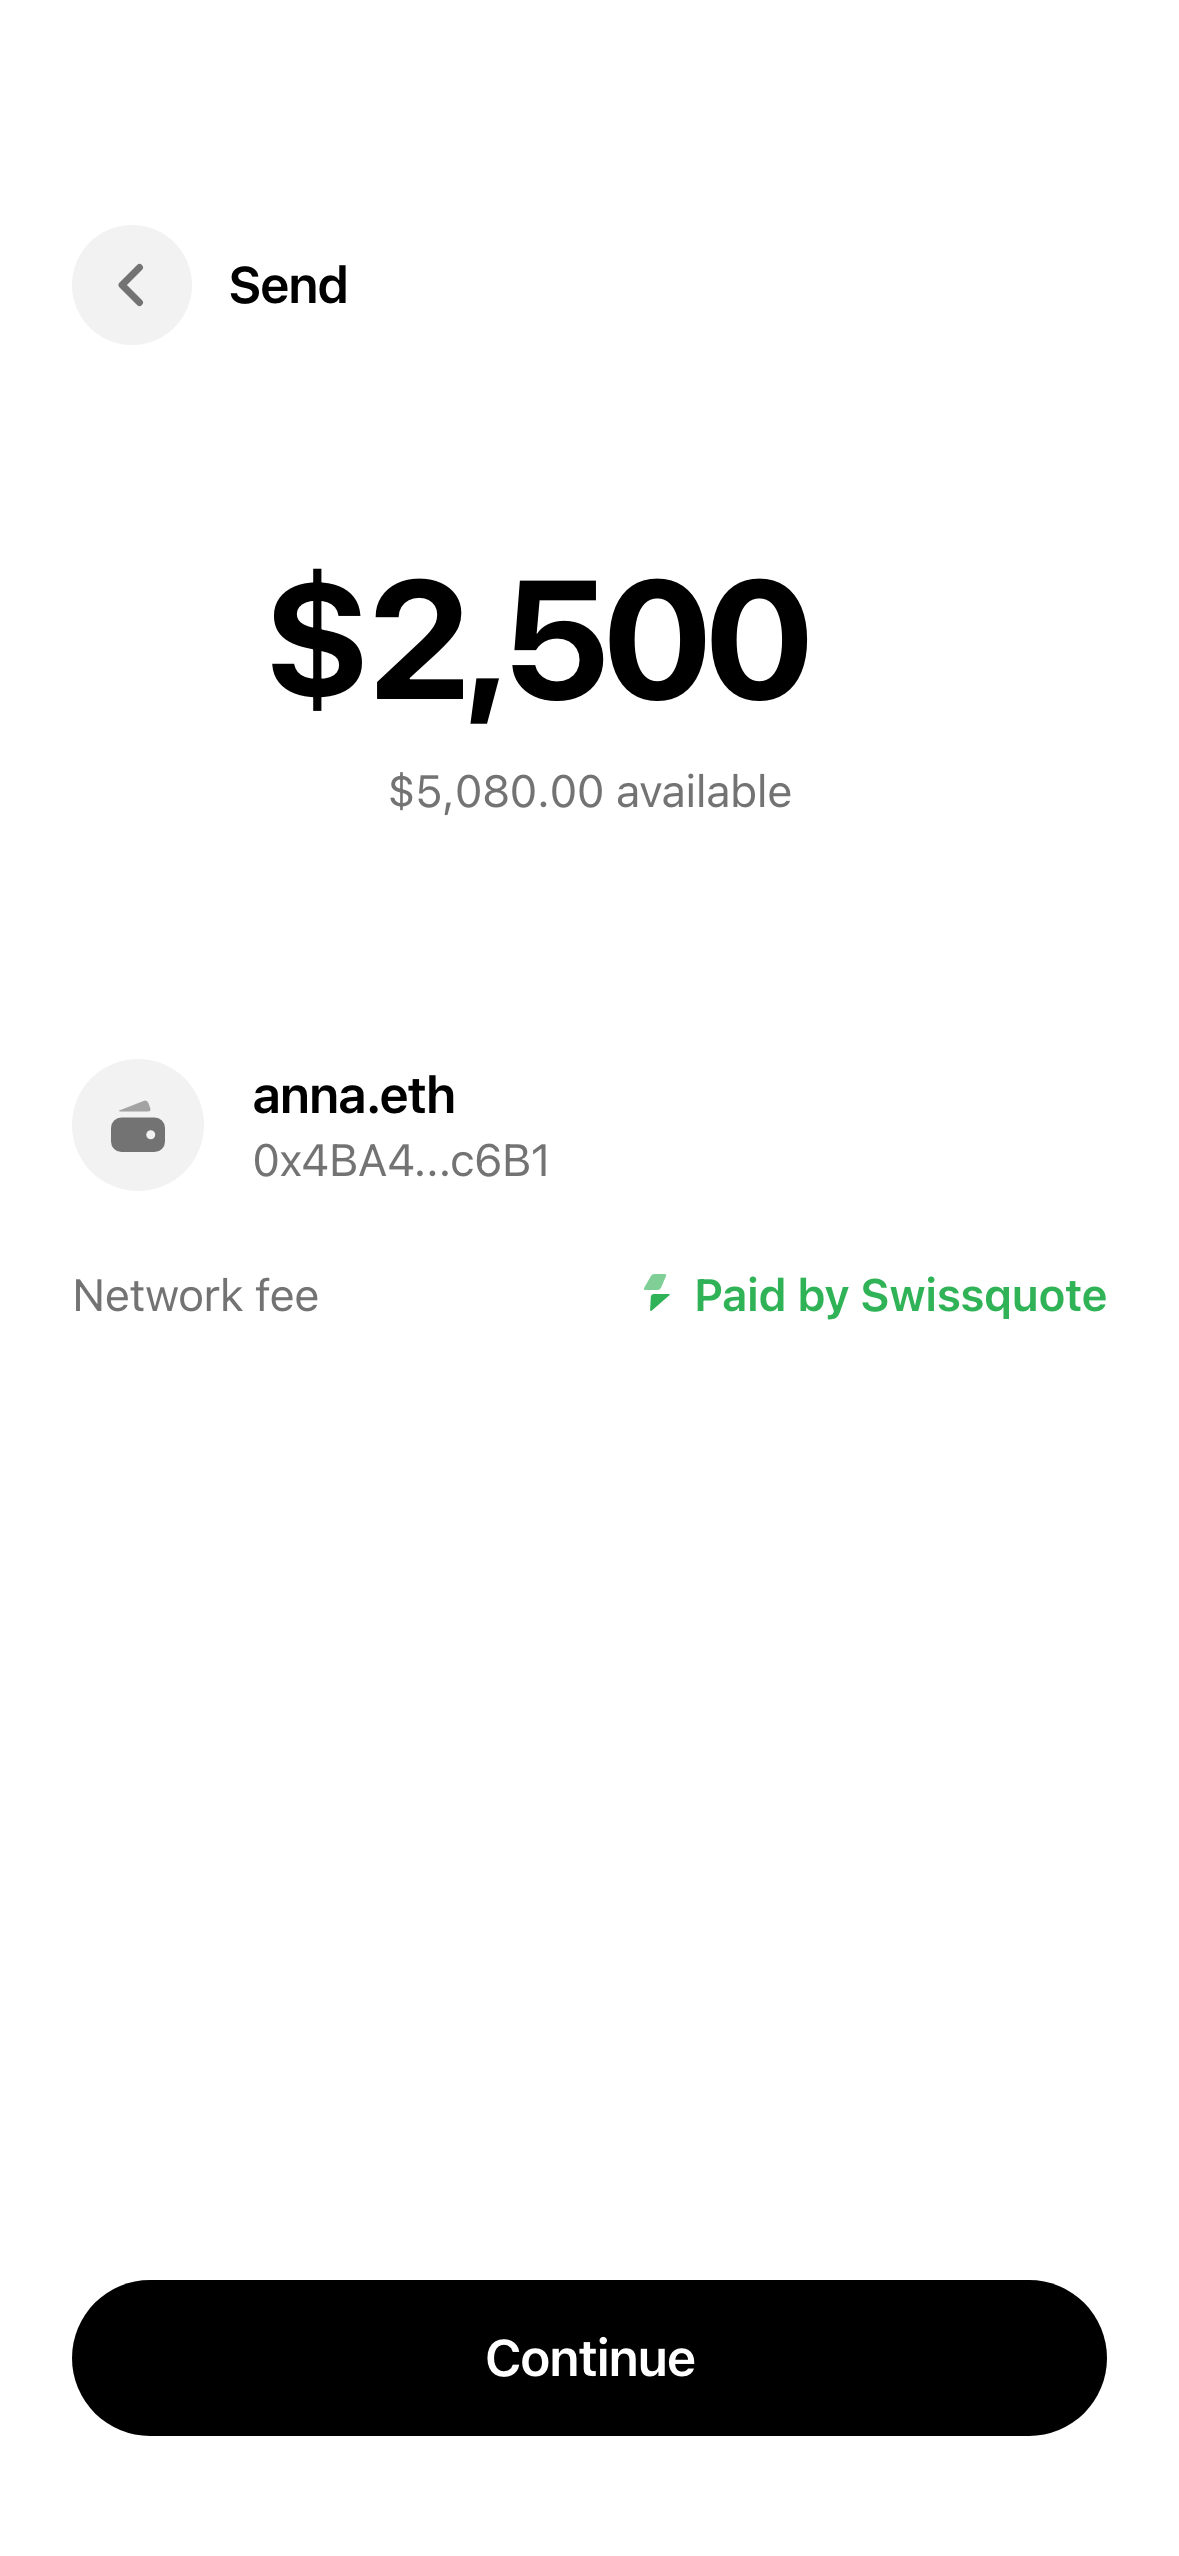
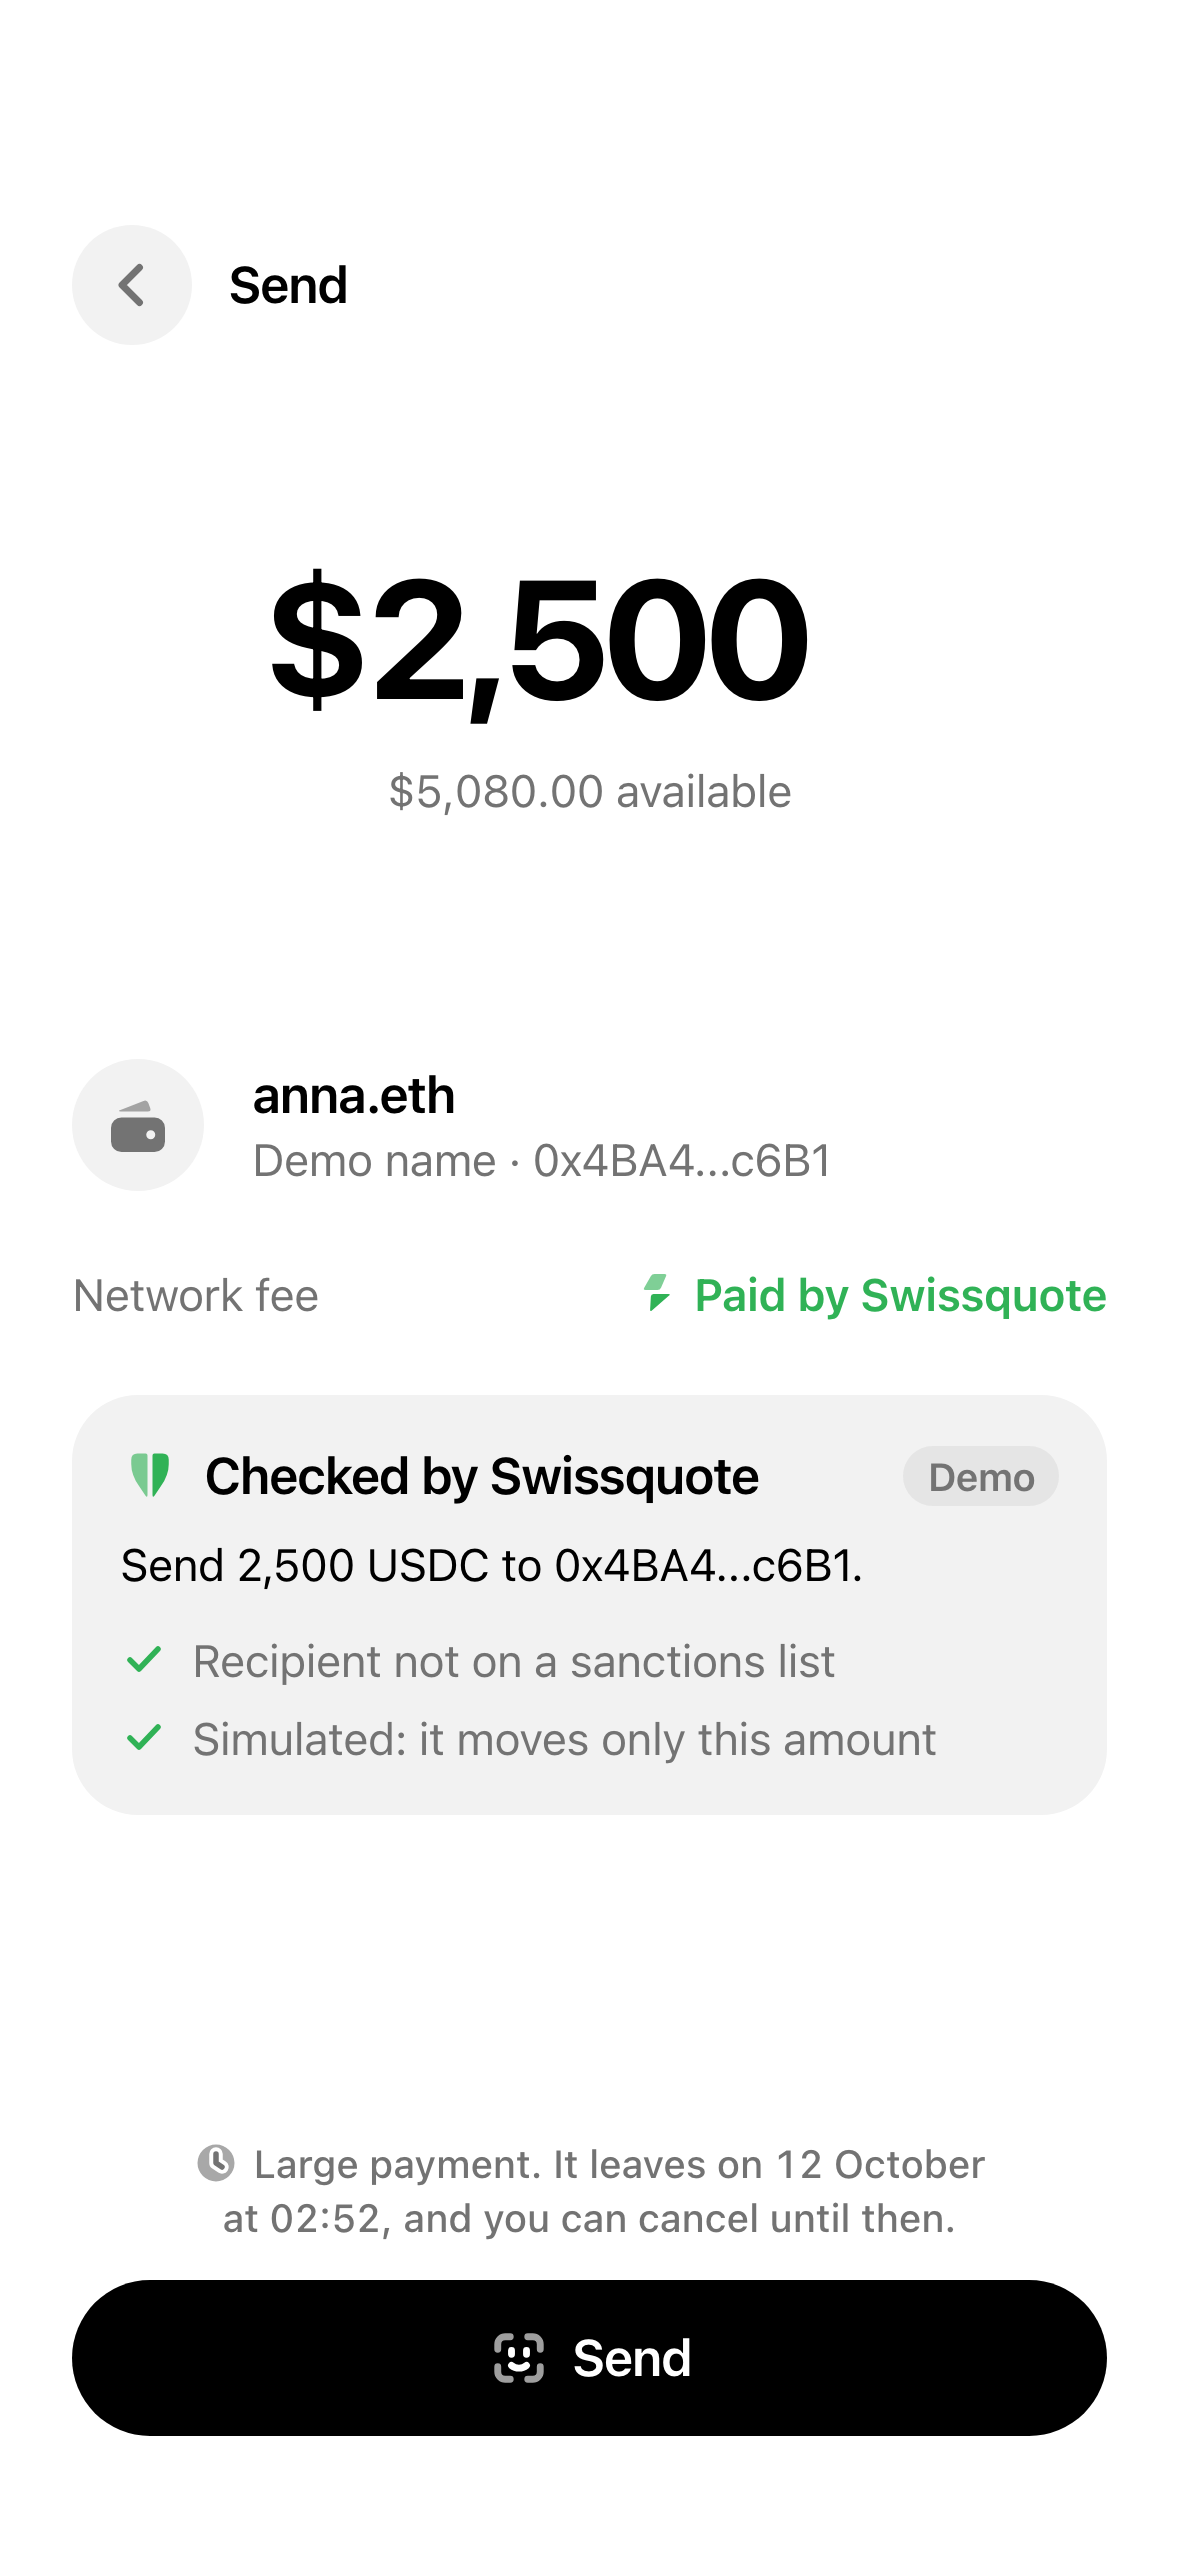
feat: the deck shows the live screens: Swissquote's reading before Face ID, a held payment, and the lock on the recovery countdown
capture.ts now writes send-summary.png, send-large.png after Continue, and recover-hold.png with the
Lock your old phone button. Slide 6 shows the completed payment.

diff --git a/slides/capture.ts b/slides/capture.ts
@@ -78,7 +78,7 @@ await mint(wallet, "100");
 console.log("Old phone: pay anna.eth 20 USDC, then a sanctioned address");
 await review(phone1, "anna.eth", "20");
 await phone1.getByRole("button", { name: "Continue" }).click();
-await shot(phone1, "send", phone1.getByRole("button", { name: "Send", exact: true }));
+await shot(phone1, "send-summary", phone1.getByText("Checked by Swissquote"));
 await phone1.getByRole("button", { name: "Send", exact: true }).click();
 await phone1.waitForURL("**/transaction-tracking?**", SLOW);
 await shot(phone1, "transaction-tracking", phone1.getByText("Completed").first());
@@ -104,7 +104,7 @@ await phone2.getByLabel("ID card number").fill(idNumber);
 await shot(phone2, "recover-id", phone2.getByRole("button", { name: "Scan ID" }));
 await phone2.getByRole("button", { name: "Scan ID" }).click();
 await phone2.getByRole("button", { name: "Restore with Face ID" }).click(SLOW);
-await shot(phone2, "recover-hold", phone2.getByText("Your wallet will be restored on"));
+await shot(phone2, "recover-hold", phone2.getByRole("button", { name: "Lock your old phone" }));
 await phone1.goto(`${APP}/home`);
 await shot(phone1, "home-recovery-alert", phone1.getByText("Someone started recovering your wallet"), 2000);
 await publicClient.request({ method: "evm_increaseTime", params: [numberToHex(48 * 3600 + 10)] } as never);
@@ -115,6 +115,7 @@ await shot(phone2, "recover-ready", phone2.getByText("Your wallet is ready to re
 console.log("Old phone: a large payment, with enough USDC to cover it");
 await mint(wallet, "5000");
 await review(phone1, "anna.eth", "2500");
-await shot(phone1, "send-large", phone1.getByText("$5,080.00 available"));
+await phone1.getByRole("button", { name: "Continue" }).click();
+await shot(phone1, "send-large", phone1.getByText(/^Large payment\./));
 
 await browser.close();

diff --git a/slides/index.html b/slides/index.html
@@ -622,7 +622,7 @@
   </div>
   <div class="phone visual" aria-hidden="true">
     <div class="screen">
-      <img src="screens/send.png" alt="">
+      <img src="screens/transaction-tracking.png" alt="">
       <div class="status"><b>9:41</b><i></i><svg><use href="#status-icons"/></svg></div>
     </div>
   </div>
@@ -651,7 +651,7 @@
     </div>
     <div class="rows" style="margin-top: 36px;">
       <div class="row" style="--c: var(--ink);"><span class="icon"><svg class="i"><use href="#i-lightning"/></svg></span><div><b>The wait is on chain</b><span>Swissquote’s paymaster, the contract paying the fee, makes it valid only after 24 hours.</span></div></div>
-      <div class="row" style="--c: var(--swissquote);"><span class="icon"><svg class="i"><use href="#i-bank"/></svg></span><div><b>The cancel is Swissquote’s</b><span>It keeps the signed payment and drops its copy if you cancel.</span></div></div>
+      <div class="row" style="--c: var(--swissquote);"><span class="icon"><svg class="i"><use href="#i-bank"/></svg></span><div><b>The cancel is Swissquote’s</b><span>Swissquote holds the signed payment, screens it again, and drops it if you cancel.</span></div></div>
     </div>
   </div>
   <div class="phone visual" aria-hidden="true">
